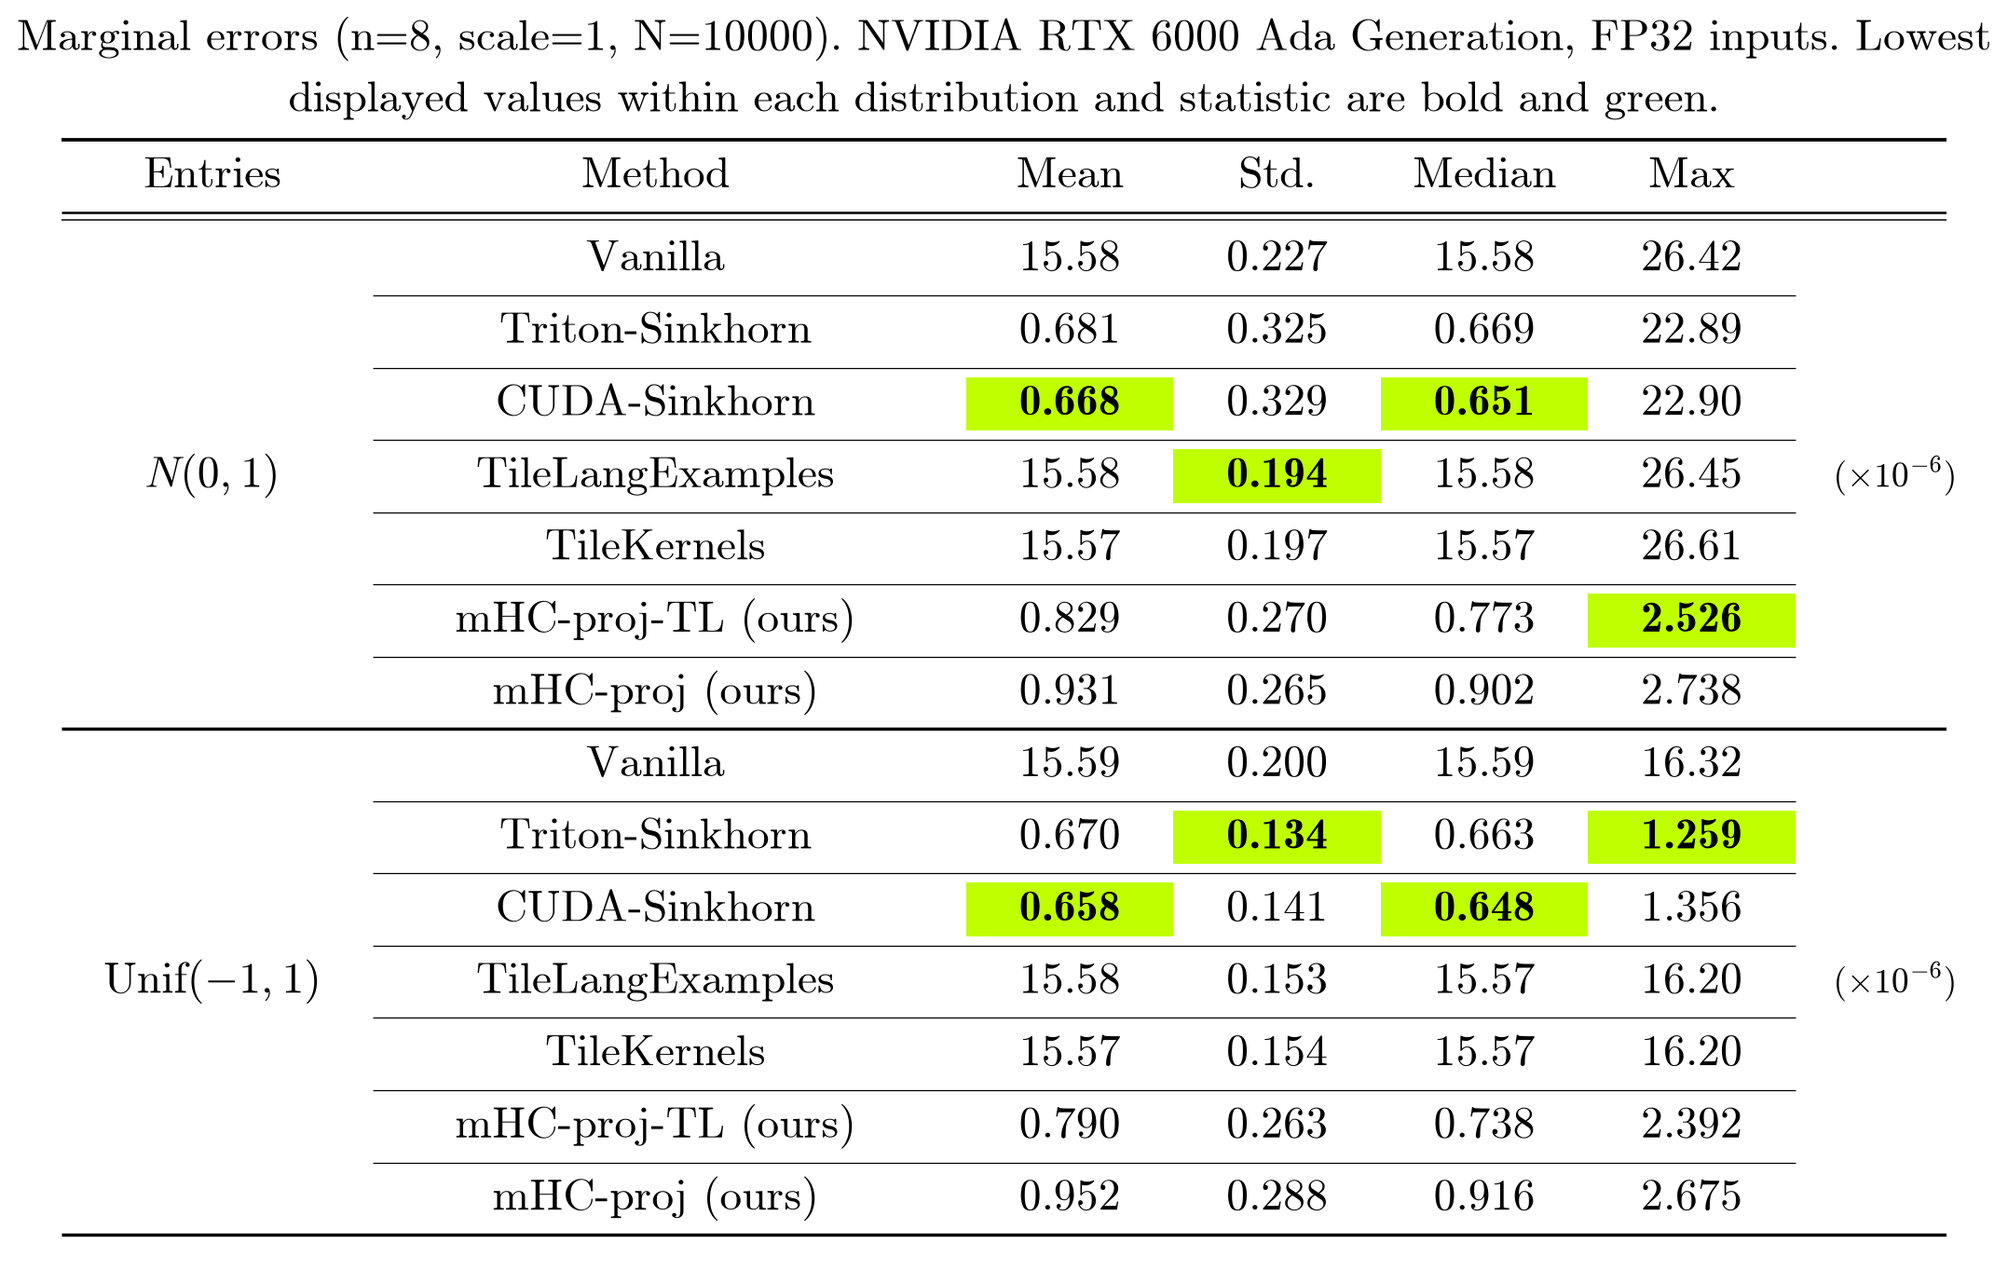
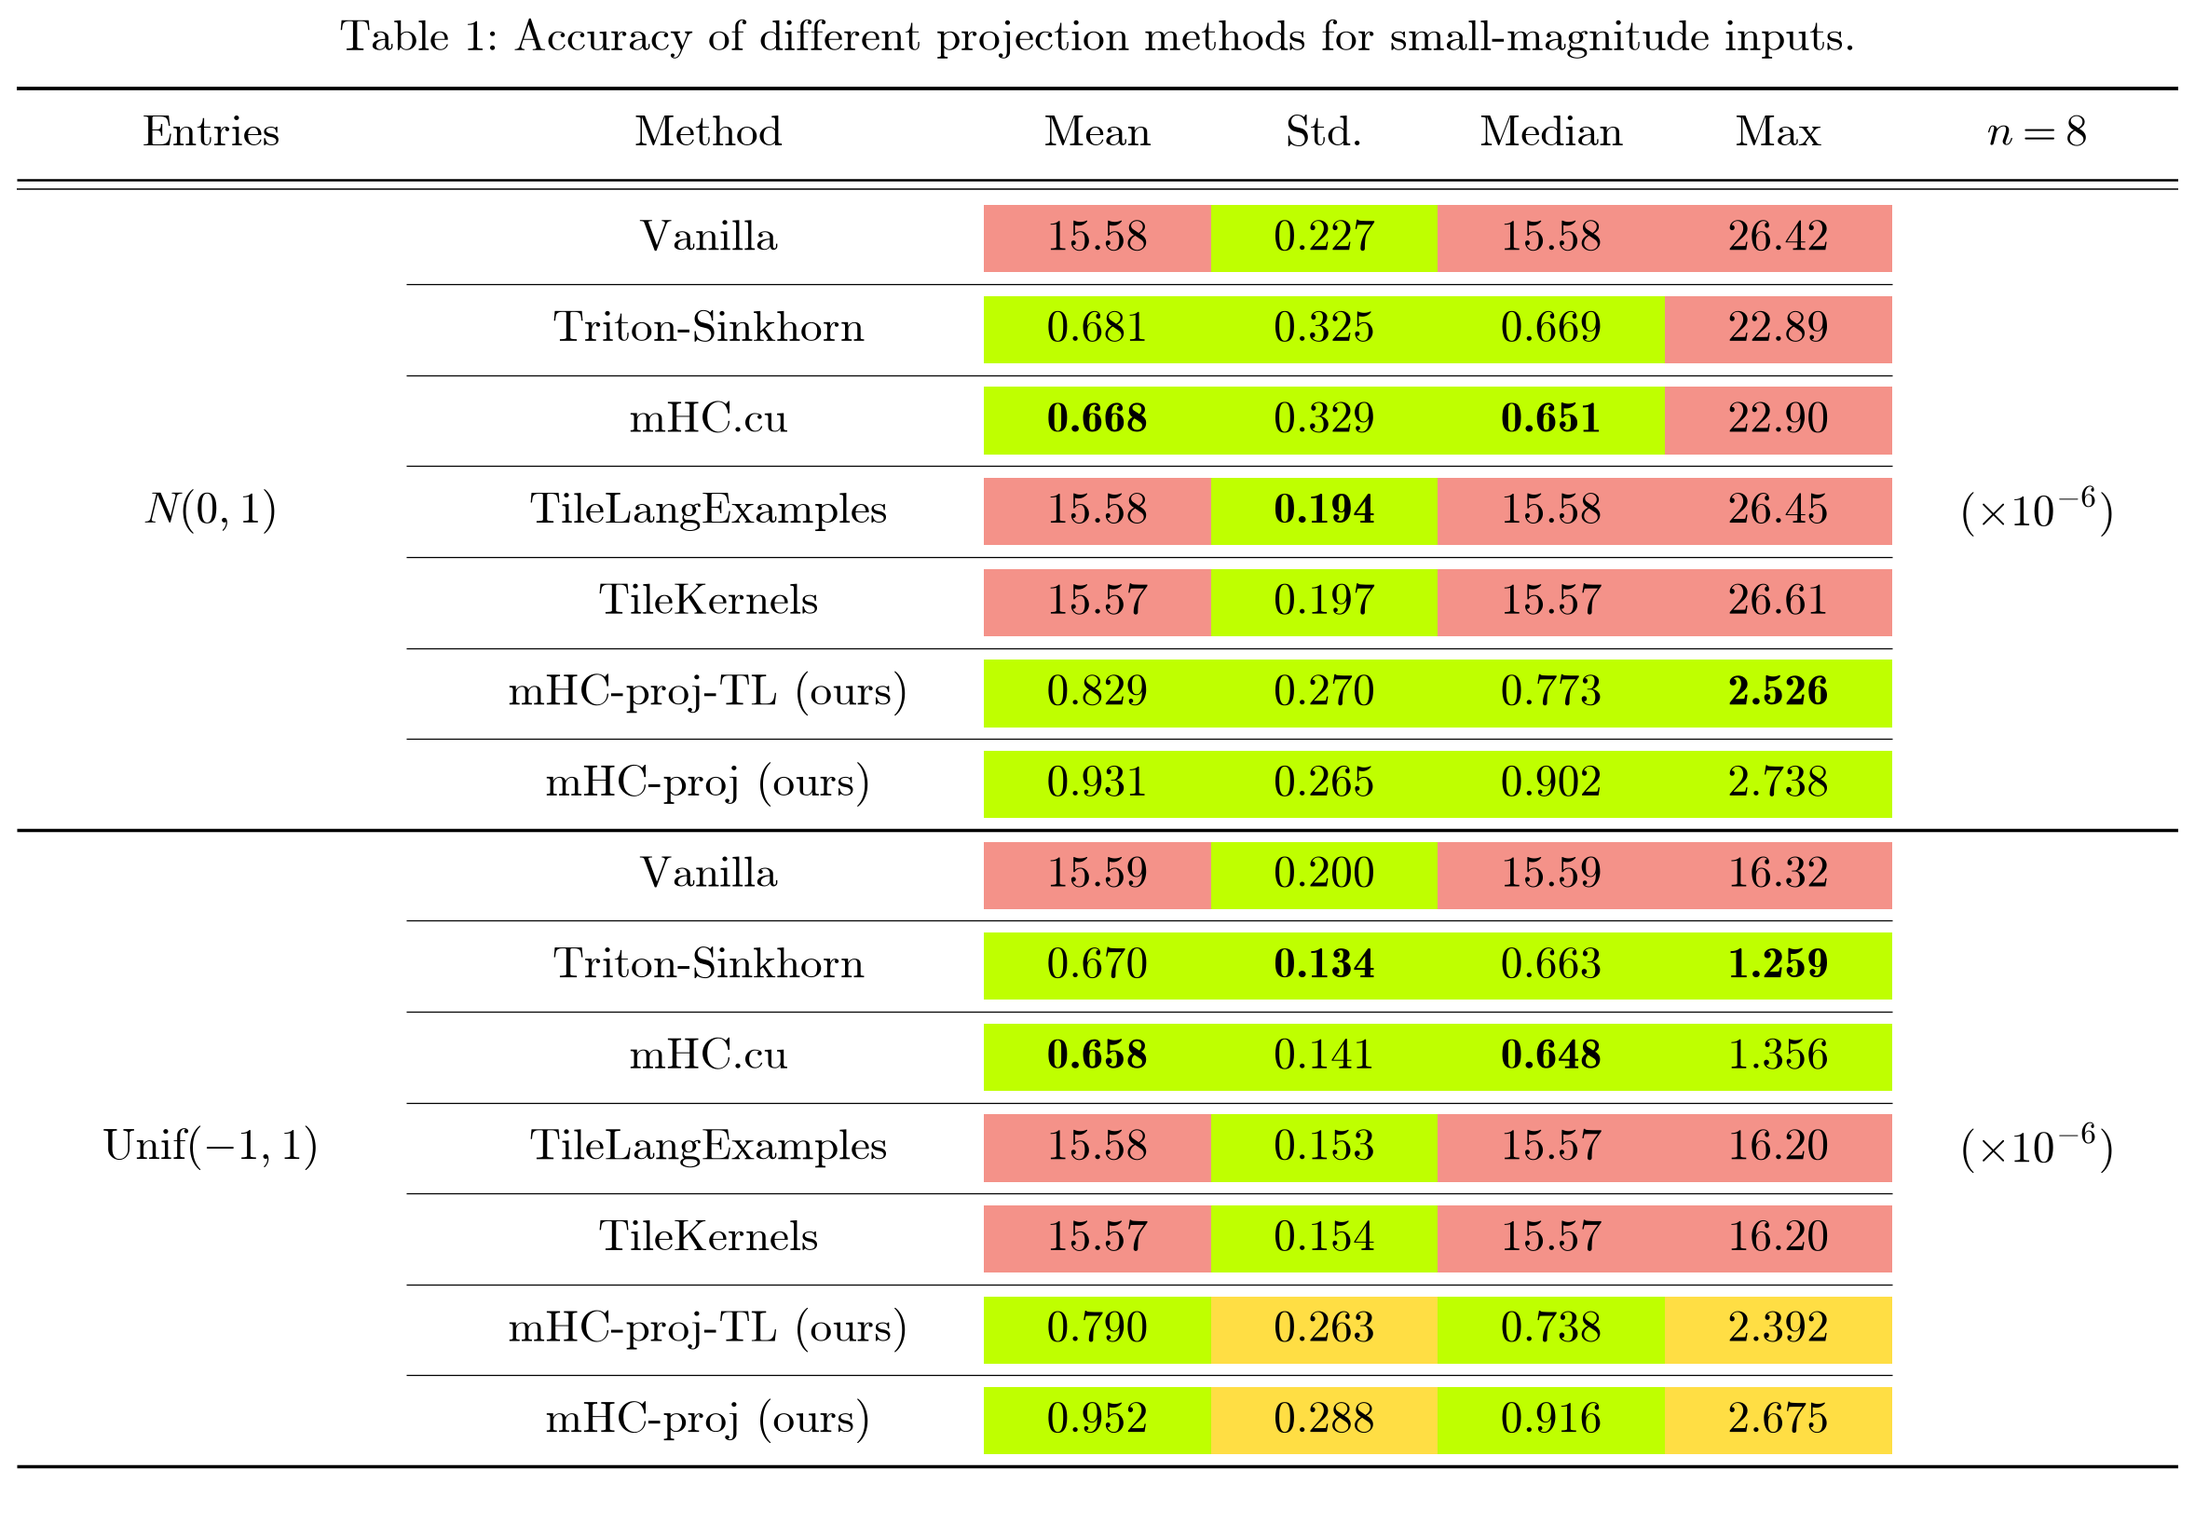
fix(benchmark): align published tables with the paper
Restore the paper's presentation while retaining current measurements and n=4/8 identification.

- Support explicit per-cell color annotations and refresh published figures
- Restore original captions, labels, and basic table styling
- Simplify README benchmark text and test rendering behavior

diff --git a/benchmark/plot.py b/benchmark/plot.py
@@ -81,21 +81,23 @@ def runtime_ratios(path: Path, config: dict) -> dict:
     }
 
 
-def text(ax, x, y, value, *, bold=False, size=19):
-    font = (BOLD if bold else NORMAL).copy()
-    font.set_size(size)
-    ax.text(x, y, value, fontproperties=font, ha="center", va="center")
+def text(ax, x, y, value, *, bold=False, ha="center"):
+    ax.text(x, y, value, fontproperties=BOLD if bold else NORMAL, ha=ha, va="center")
 
 
-def canvas(count, caption):
+def canvas(count, caption, *, kind="accuracy"):
     lines = textwrap.wrap(caption, width=97)
     offset = (len(lines) - 1) * .85
-    fig, ax = plt.subplots(figsize=(13, (count + 2.4 + offset) * .44))
-    ax.set(xlim=(0, 1), ylim=(count + 2.4 + offset, 0))
+    height = count + 2.4 + offset
+    fig, ax = plt.subplots(figsize=(13, height * (.55 if kind == "accuracy" else .44)))
+    ax.set(xlim=(0, 1), ylim=(height, 0))
     ax.axis("off")
     for i, line in enumerate(lines):
-        text(ax, .5, .25 + i * .85, line)
+        text(ax, 0 if len(lines) > 1 else .5, .25 + i * .85, line,
+             ha="left" if len(lines) > 1 else "center")
     ax.hlines([.8 + offset, 1.8 + offset], 0, 1, colors="black", linewidths=[1.5, 1])
+    if kind == "accuracy":
+        ax.hlines(1.9 + offset, 0, 1, color="black", linewidth=.6)
     return fig, ax, offset
 
 
@@ -117,46 +119,55 @@ def number(value):
     return f"{value:.0f}"
 
 
+# Like the paper's \cellcolor annotations, colors are specified per saved table.
+ACCURACY_COLORS = {"lime": "#bfff00", "Goldenrod": "#ffde44", "Salmon": "#f49289"}
+
+
 def draw_accuracy(path, config, values):
     methods = config["backends"]
     distributions = config["accuracy"]["distributions"]
     n, scale = config["n"], config["scale"]
+    colors = config["accuracy"].get("colors", {})
     caption = (
-        f'Marginal errors (n={n}, scale={scale}, N={config["accuracy"]["batch_size"]}). '
-        f'{config["device"]["name"]}, FP32 inputs. '
-        'Lowest displayed values within each distribution and statistic are bold and green.'
+        f'Table {1 if scale == 1 else 2}: Accuracy of different projection methods '
+        f'for {"small" if scale == 1 else "large"}-magnitude inputs.'
     )
     fig, ax, offset = canvas(len(distributions) * len(methods), caption)
-    centers = (.08, .315, .535, .645, .755, .865)
+    centers = (.09, .32, .50, .605, .71, .815)
     for x, label in zip(centers, ("Entries", "Method", "Mean", "Std.", "Median", "Max")):
         text(ax, x, 1.3 + offset, label)
-    ax.hlines(1.9 + offset, 0, 1, color="black", linewidth=.6)
+    text(ax, .935, 1.3 + offset, rf'$n={n}$')
     exponent = -6 if scale == 1 else -3
     factor = 10 ** -exponent
     labels = {
-        "normal": rf'$N(0,{scale ** 2})$',
+        "normal": r'$N(0,1)$' if scale == 1 else rf'$N(0,{scale}^2)$',
         "uniform": rf'$\mathrm{{Unif}}(-{scale},{scale})$',
     }
     for group, distribution in enumerate(distributions):
         rows = [[v * factor for v in values[distribution, method]] for method in methods]
         minima = [min(row[j] for row in rows) for j in range(4)]
-        middle = 2.45 + offset + group * len(methods) + (len(methods) - 1) / 2
-        text(ax, .08, middle, labels[distribution])
-        text(ax, .973, middle, rf'$(\times10^{{{exponent}}})$', size=15)
+        start = 2.45 + offset + group * len(methods)
+        middle = start + (len(methods) - 1) / 2
+        text(ax, centers[0], middle, labels[distribution])
+        text(ax, .935, middle, rf'$(\times10^{{{exponent}}})$')
         for i, method in enumerate(methods):
-            y = 2.45 + offset + group * len(methods) + i
-            label = "CUDA-Sinkhorn" if method == "mHC.cu" and n == 8 else method
+            y = start + i
+            label = method
             if method.startswith("mHC-proj"):
                 label += " (ours)"
-            text(ax, .315, y, label)
+            text(ax, centers[1], y, label)
             for j, value in enumerate(rows[i]):
                 x = centers[j + 2]
                 best = number(value) == number(minima[j])
-                if best:
-                    ax.add_patch(Rectangle((x - .055, y - .37), .11, .74, facecolor="#bfff00"))
+                cell_colors = colors.get(distribution, {}).get(method)
+                if cell_colors is not None:
+                    ax.add_patch(Rectangle(
+                        (x - .0525, y - .37), .105, .74,
+                        facecolor=ACCURACY_COLORS[cell_colors[j]], edgecolor="none",
+                    ))
                 text(ax, x, y, number(value), bold=best)
             last = i == len(methods) - 1
-            ax.hlines(y + .5, 0 if last else .165, 1 if last else .92,
+            ax.hlines(y + .5, 0 if last else .18, 1 if last else .8675,
                       color="black", linewidth=1.4 if last else .5)
     save(fig, path)
 
@@ -165,25 +176,25 @@ def draw_runtime(path, config, ratios):
     runtime = config["runtime"]
     methods, batches, modes = config["backends"], runtime["batch_sizes"], runtime["modes"]
     caption = (
-        f'Normalized runtime (n={config["n"]}, entries from N(0, {config["scale"] ** 2})). '
-        f'{config["device"]["name"]}. Median per-round ratios relative to mHC-proj. '
-        'Triton: Triton-Sinkhorn; TLE: TileLangExamples; TK: TileKernels; '
-        'Proj-TL: mHC-proj-TL; Proj: mHC-proj.'
+        'Table 3: Median normalized computational time of different projection methods '
+        f'(n={config["n"]}). Short column labels denote Triton-Sinkhorn (Triton), '
+        'TileLangExamples (TLE), TileKernels (TK), mHC-proj-TL (Proj-TL), '
+        'and mHC-proj (Proj); Fwd. and Fwd.+Bwd. denote the forward pass and '
+        'forward-backward computation, respectively.'
     )
-    if config["n"] == 8:
-        caption += " CUDA-SK: CUDA-Sinkhorn."
-    fig, ax, offset = canvas(len(modes) * len(batches), caption)
+    fig, ax, offset = canvas(len(modes) * len(batches), caption, kind="runtime")
     centers = [.32 + .625 * i / max(1, len(methods) - 1) for i in range(len(methods))]
     text(ax, .08, 1.3 + offset, "Feature")
     text(ax, .215, 1.3 + offset, "Batch")
     for x, method in zip(centers, methods):
-        label = "CUDA-SK" if method == "mHC.cu" and config["n"] == 8 else SHORT_NAMES.get(method, method)
+        label = SHORT_NAMES.get(method, method)
         text(ax, x, 1.3 + offset, label)
     for group, mode in enumerate(modes):
-        middle = 2.45 + offset + group * len(batches) + (len(batches) - 1) / 2
+        start = 2.45 + offset + group * len(batches)
+        middle = start + (len(batches) - 1) / 2
         text(ax, .08, middle, "Fwd." if mode == "forward" else "Fwd.+Bwd.")
         for i, batch in enumerate(batches):
-            y = 2.45 + offset + group * len(batches) + i
+            y = start + i
             text(ax, .215, y, rf'${batch / 1024:g}K$')
             for x, method in zip(centers, methods):
                 text(ax, x, y, f"{ratios[mode, batch, method]:.3f}", bold=method == "mHC-proj")

diff --git a/tests/test_benchmark_plot.py b/tests/test_benchmark_plot.py
@@ -36,6 +36,13 @@ def recorded(tmp_path):
         "accuracy": {"batch_size": 4, "distributions": ["normal", "uniform"]},
         "runtime": {"batch_sizes": [512], "runs": 3, "modes": ["forward", "forward_backward"]},
     }
+    config["accuracy"]["colors"] = {
+        distribution: {
+            "other": ["Salmon", "Goldenrod", "lime", "Salmon"],
+            "mHC-proj": ["lime"] * 4,
+        }
+        for distribution in config["accuracy"]["distributions"]
+    }
     (directory / "config.json").write_text(json.dumps(config))
     accuracy = [
         dict(distribution=distribution, backend=backend, matrix_index=i, error=v * scale)
@@ -100,3 +107,63 @@ def test_plots_and_selected_publication_are_reproducible(plotting, recorded):
     assert hashlib.sha256(image.read_bytes()).digest() == before
     assert [p.name for p in plotting.ASSETS_DIR.iterdir()] == ["sm89-n8-accuracy-scale10.png"]
     assert (plotting.ASSETS_DIR / "sm89-n8-accuracy-scale10.png").read_bytes() == image.read_bytes()
+
+
+@pytest.mark.parametrize("annotated", [True, False])
+def test_accuracy_uses_explicit_cell_colors(plotting, recorded, monkeypatch, annotated):
+    directory, config = recorded
+    if not annotated:
+        del config["accuracy"]["colors"]
+    values = plotting.accuracy_statistics(directory / "accuracy.csv", config)
+    figures = []
+    monkeypatch.setattr(plotting, "save", lambda fig, path: figures.append(fig))
+    plotting.draw_accuracy(directory / "accuracy.png", config, values)
+    try:
+        colors = [plotting.matplotlib.colors.to_hex(p.get_facecolor())
+                  for p in figures[0].axes[0].patches]
+        expected = (["#f49289", "#ffde44", "#bfff00", "#f49289"] + ["#bfff00"] * 4) * 2
+        assert colors == (expected if annotated else [])
+    finally:
+        plotting.plt.close(figures[0])
+
+
+@pytest.mark.parametrize(("n", "scale", "table", "magnitude"), [
+    (4, 1, 1, "small"), (8, 10, 2, "large"),
+])
+def test_original_captions_and_runtime_columns(plotting, recorded, monkeypatch, n, scale, table, magnitude):
+    directory, config = recorded
+    config.update(n=n, scale=scale)
+    captions, figures = [], []
+    canvas = plotting.canvas
+
+    def capture(count, caption, **kwargs):
+        captions.append(caption)
+        return canvas(count, caption, **kwargs)
+
+    def save(fig, path):
+        figures.append(fig)
+        plotting.plt.close(fig)
+
+    monkeypatch.setattr(plotting, "canvas", capture)
+    monkeypatch.setattr(plotting, "save", save)
+    values = plotting.accuracy_statistics(directory / "accuracy.csv", config)
+    plotting.draw_accuracy(directory / "accuracy.png", config, values)
+    assert captions[0] == (
+        f"Table {table}: Accuracy of different projection methods "
+        f"for {magnitude}-magnitude inputs."
+    )
+    assert rf'$n={n}$' in [t.get_text() for t in figures[0].axes[0].texts]
+    assert len(figures[0].axes[0].patches) == 16
+    config["backends"] = list(plotting.SHORT_NAMES)
+    ratios = {(mode, 512, name): 1 for mode in config["runtime"]["modes"] for name in config["backends"]}
+    plotting.draw_runtime(directory / "runtime.png", config, ratios)
+    assert captions[1].startswith(
+        f"Table 3: Median normalized computational time of different projection methods (n={n})."
+    )
+    assert config["device"]["name"] not in " ".join(captions)
+    headings = {t.get_text(): t.get_position()[0] for t in figures[1].axes[0].texts}
+    assert headings["Vanilla"] < headings["Proj-TL"] < headings["Proj"]
+    assert "mHC.cu" in headings
+    assert not figures[1].axes[0].patches
+    top_rule = figures[1].axes[0].collections[0].get_segments()[0][0][1]
+    assert all(t.get_ha() == "left" for t in figures[1].axes[0].texts if t.get_position()[1] < top_rule)

diff --git a/README.md b/README.md
@@ -145,17 +145,17 @@ We benchmark the following open-source implementations on an Nvidia RTX 6000 Ada
 6. **mHC-proj-TL**: A TileLang implementation of the proposed second-order Birkhoff projection solver: https://github.com/yixuan/mHC-proj/tree/master/benchmark/mhc/tilelang.
 7. **mHC-proj**: This library.
 
-The test code can be found in the [benchmark](benchmark) directory. For $n=8$, we use the adaptations included in this repository. In the $n=8$ tables, the CUDA Sinkhorn backend is labeled **CUDA-Sinkhorn** rather than mHC.cu, whose upstream implementation specializes in $n=4$.
+The test code can be found in the [benchmark](benchmark) directory. For $n=8$, the listed backends use the adaptations in this repository.
 
 ### Accuracy
 
-For each $n\in\{4,8\}$, we randomly generate $N=10000$ FP32 matrices of size $n\times n$ with seed 123, forming an $N\times n\times n$ tensor $R$ as the input of the seven implementations. Each outputs a tensor $T$ of the same shape. If the projection is accurate, then each $T_i$ is doubly stochastic, so we measure the error in FP64 as
+We randomly generate $N=10000$ matrices of size $n\times n$, for $n=4$ and $n=8$, forming an $N\times n\times n$ tensor $R$ as the input of the seven implementations. Each of them outputs a tensor $T$ consisting of $N$ matrices of size $n\times n$. If the projection is accurate, then each $T_i$ is doubly stochastic, so we measure the error as
 
 $$
 \mathrm{Err}(T_i)=\Vert T_i\mathbf{1}_n-\mathbf{1}_n \Vert_1 + \Vert T_i^\top\mathbf{1}_n-\mathbf{1}_n \Vert_1.
 $$
 
-The mean, sample standard deviation, median, and maximum of the $N$ error values are shown below. Lowest displayed values within each distribution and statistic are highlighted in green. These statistics measure forward marginal error, not gradient accuracy.
+The mean, standard deviation, median, and maximum of the $N$ error values are summarized below:
 
 #### n=4
 
@@ -167,17 +167,13 @@ If the magnitudes of the entries are larger, then mHC-proj demonstrates larger a
 
 #### n=8
 
-The same distributions and statistics are used for $n=8$.
-
 ![n=8 marginal errors, scale 1](assets/sm89-n8-accuracy-scale1.png)
 
 ![n=8 marginal errors, scale 10](assets/sm89-n8-accuracy-scale10.png)
 
 ### Run time
 
-The runtime tables below use inputs from $N(0,10^2)$. We reuse the original input on every call and measure the run time of different implementations for various batch sizes $N$. The time is normalized such that in each configuration **mHC-proj** has one unit of run time.
-
-The harness uses eager calls and CUDA Event timing: 100 warmup calls, 100 calls per sample, and 10 rounds. Reported values are medians of per-round ratios. Backends use their configured methods, so this is not an accuracy-matched comparison.
+We fix the input distribution to be $N(0,10^2)$, and measure the run time of different implementations for various batch sizes $N$. The time is normalized such that in each configuration **mHC-proj** has one unit of run time.
 
 #### n=4
 
@@ -195,18 +191,7 @@ Measure both matrix sizes and input scales on GPU 0:
 CUDA_VISIBLE_DEVICES=0 make benchmark ARGS="--n 4 8 --scale 1 10"
 ```
 
-Each configuration gets a directory under `benchmark/results/`, which is ignored by Git. For example, on sm89:
-
-```text
-benchmark/results/sm89-n4-scale1/
-├── config.json
-├── accuracy.csv
-├── runtime.csv
-├── accuracy.png
-└── runtime.png
-```
-
-`config.json` records the parameters, seed, code revision, timestamps and environment. `accuracy.csv` records each matrix's marginal error for normal and uniform inputs. `runtime.csv` records each round's average per-call latency for every backend, batch size and mode. A scale of $s$ multiplies standard-normal or $U(-1,1)$ inputs by $s$; runtime measurements use the normal distribution. Both scale 1 and scale 10 record accuracy and runtime. Replacing an existing measurement requires an explicit `--overwrite`.
+Results are saved in Git-ignored directories such as `benchmark/results/sm89-n4-scale1/`, with `config.json`, `accuracy.csv`, and `runtime.csv`. Existing measurements require `--overwrite` to replace. Optional per-cell colors are recorded in `config.json` under `accuracy.colors`, by distribution and backend, in Mean/Std./Median/Max order (`lime`, `Goldenrod`, `Salmon`).
 
 Generate the PNG files from the saved data, without running CUDA workloads:
 
@@ -214,11 +199,9 @@ Generate the PNG files from the saved data, without running CUDA workloads:
 uv run --no-sync --group benchmark python benchmark/plot.py benchmark/results/sm89-n*-scale*
 ```
 
-The plotting script computes statistics and median per-round runtime ratios from the CSV files. To also copy selected figures into the root `assets/` directory for the README:
+This generates `accuracy.png` and `runtime.png`. To publish selected figures to `assets/`:
 
 ```bash
 uv run --no-sync --group benchmark python benchmark/plot.py benchmark/results/sm89-n*-scale1 --publish accuracy
 uv run --no-sync --group benchmark python benchmark/plot.py benchmark/results/sm89-n*-scale10 --publish accuracy runtime
 ```
-
-`assets/` contains the published PNG files, named by architecture, matrix size, metric and scale, such as `sm89-n8-runtime-scale10.png`.
